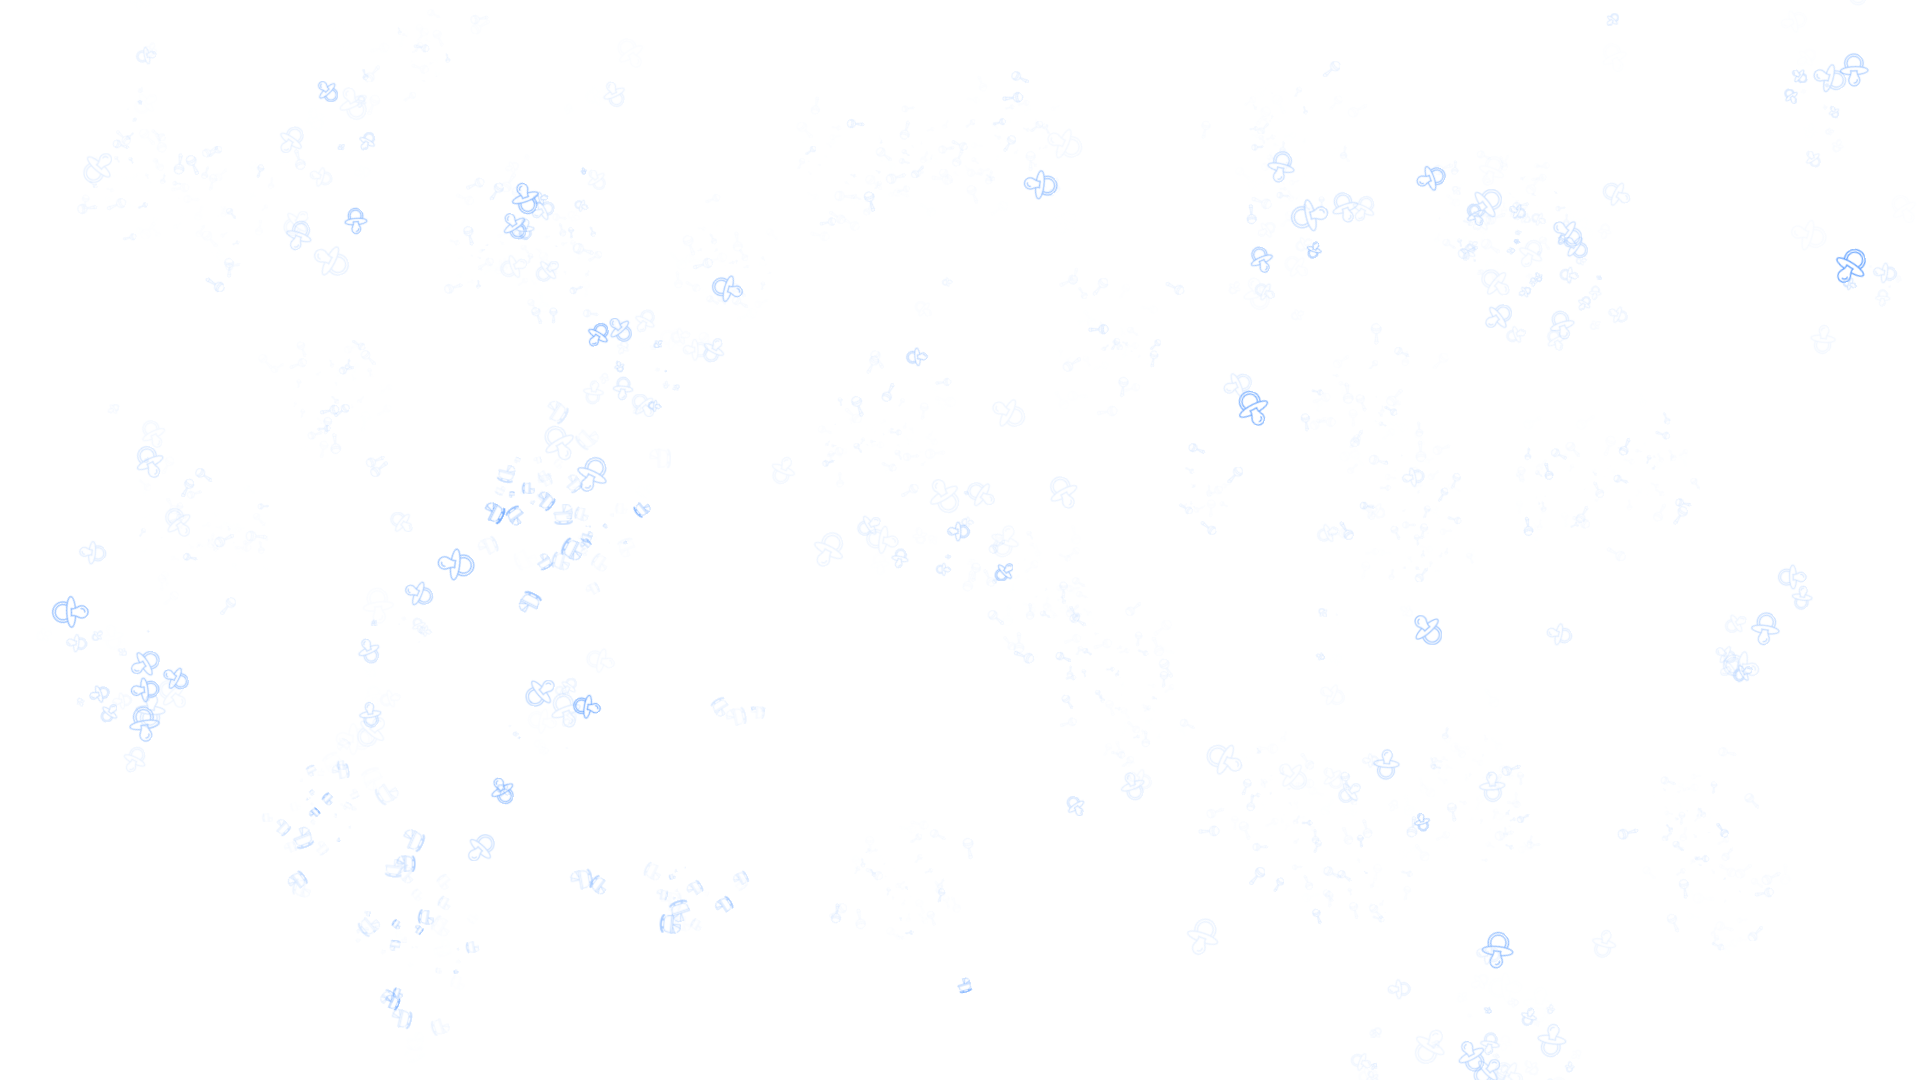
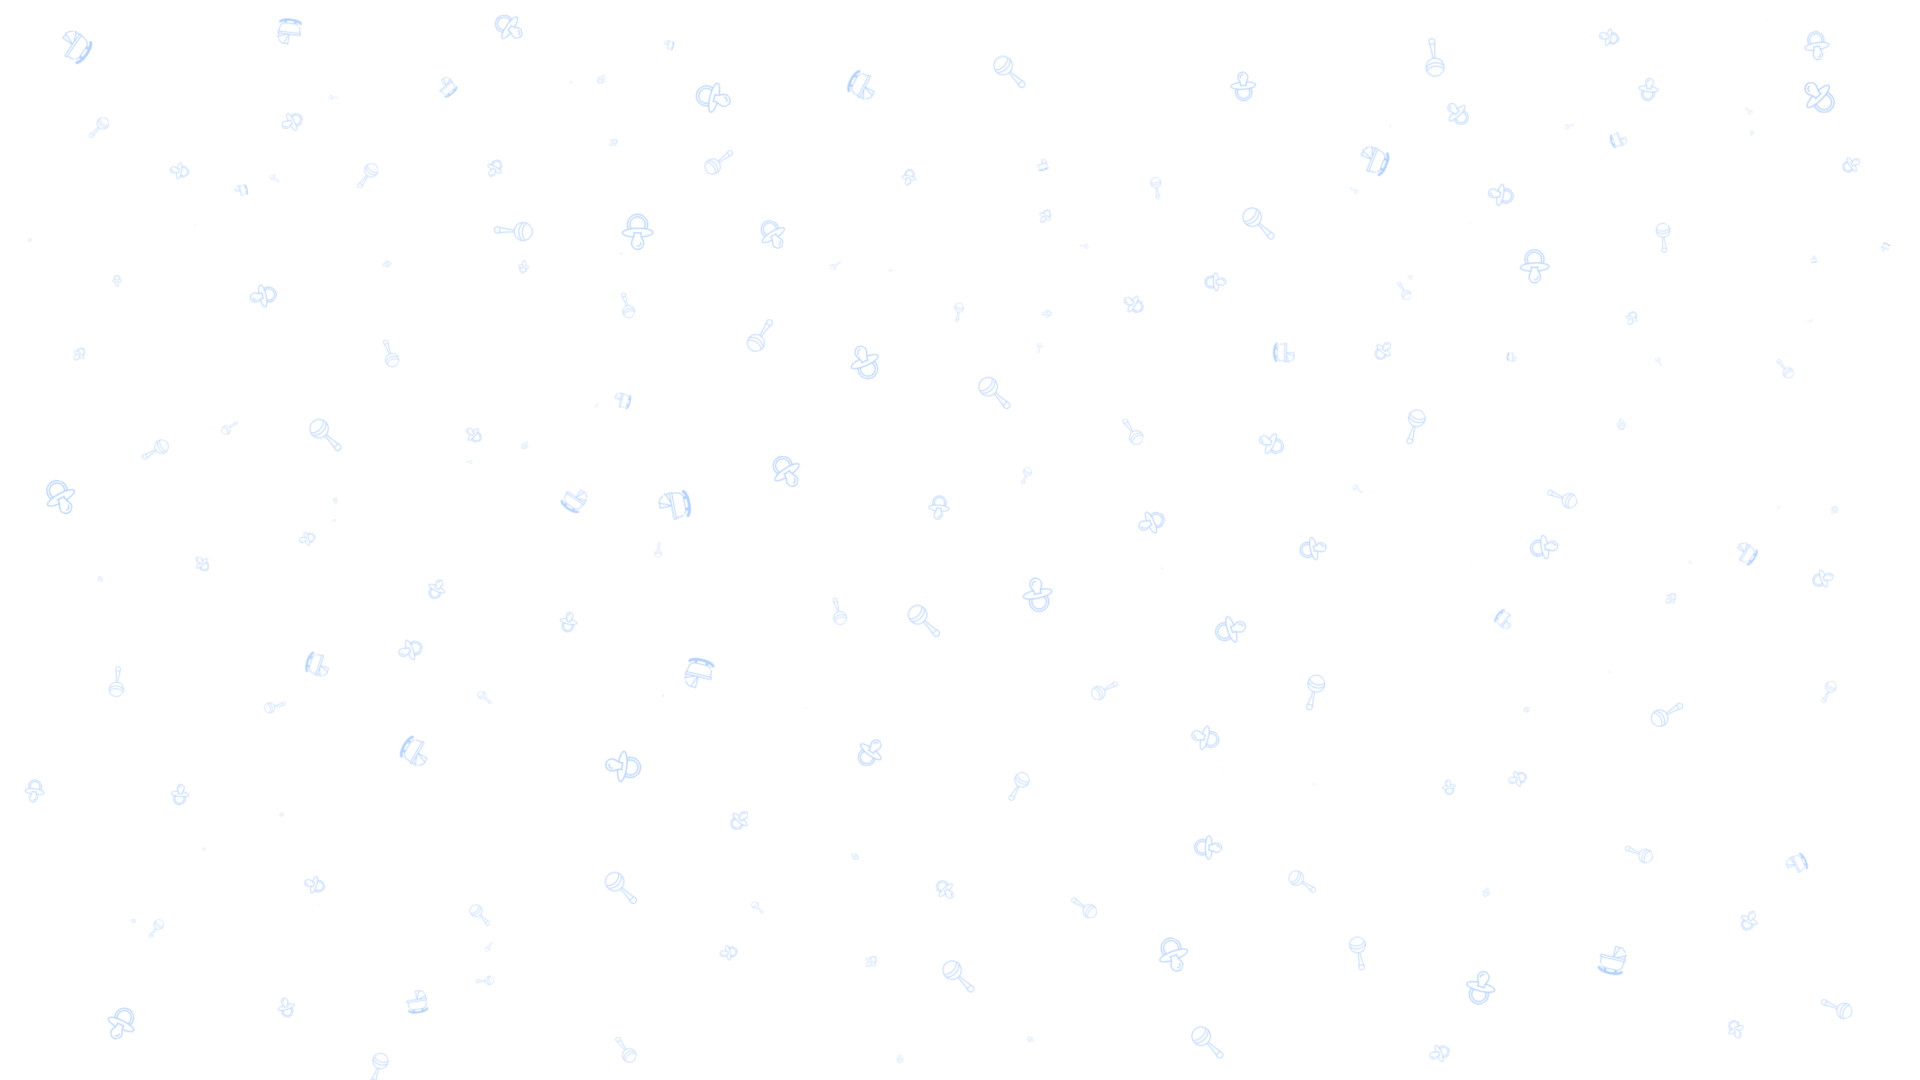
textando design

diff --git a/guia-gestante/style.css b/guia-gestante/style.css
@@ -20,13 +20,32 @@ section{
     height: auto;
 }
 .gravida{
+    z-index: 1;
+    display: flex;
+    align-items: center;
+    justify-content: center;
+    position: relative;
     aspect-ratio: 1/1;
             height: 140%;
-            background-image: url('p.gif');
-            background-size: cover;
-            background-repeat: no-repeat;
-            background-position: top;
             opacity: 0.9;
+}
+.gravida div:nth-of-type(1){
+    background-image: url('p.gif');
+    background-size: cover;
+    background-repeat: no-repeat;
+    background-position: center;
+    position: absolute;
+    width: 100%;
+    height: 100%;
+    z-index: 2;
+}
+.gravida div:nth-of-type(2){
+    z-index: 1;
+    content: "";
+    position: absolute;
+    width: 130%;
+    height: 130%;
+    background: radial-gradient(circle, rgba(245, 213, 219, 0.815) 0%, rgba(245, 213, 219, 0.637) 0%,rgba(255, 0, 0, 0) 50%);
 }
 body{
     display: flex;
@@ -289,7 +308,7 @@ body{
     background-repeat: no-repeat;
     background-size: cover;
     bottom: 0;
-    opacity: 0.2;
+    opacity: 0.3;
     left: 0;
     width: 100%;
     height: 100%;
@@ -794,11 +813,11 @@ font-size: 19px;
         width: 100%;
     }
     .depoimento::before{
-        top: -1%;
-        width: 60px;
+        top: -3%;
+        width: 90px;
     }
     .depoimento::after{
-        width: 60px;
-        bottom: -1%;
+        width: 90px;
+        bottom: -2%;
     }
 }

diff --git a/guia-gestante/index.html b/guia-gestante/index.html
@@ -47,7 +47,10 @@
     <body>
         <section class="header">
         <div class="center" style=" padding-bottom: 20px; flex-direction: column; align-items: center; justify-content: center; height: 100%; border-bottom: 1px solid rgba(255, 255, 255, 0.639);">
-            <div class="gravida"></div>
+            <div class="gravida">
+                <div></div>
+                <div></div>
+            </div>
             <p style="font-size: 20px;  font-weight: 700;">Você não está  <strong style=" font-weight: 700; color: rgb(67, 255, 111);">sozinha</strong></p>
         </div>
 
